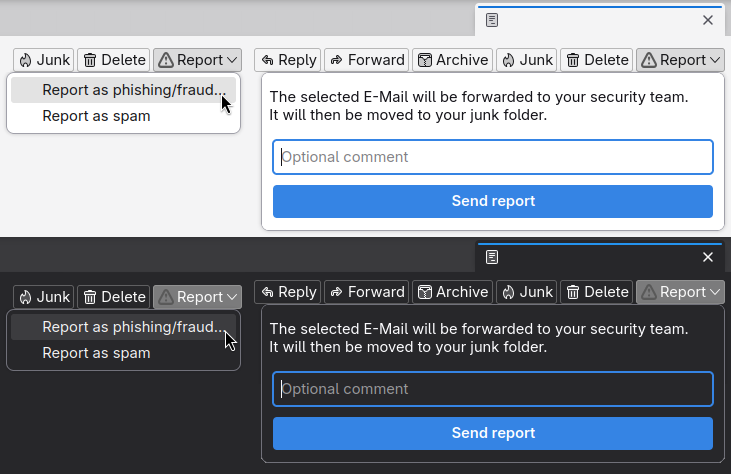
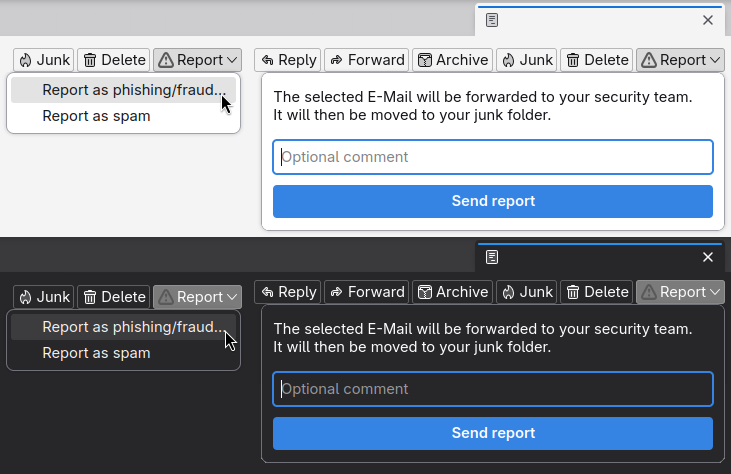
Fix report popup's visual text alignment

Changed region(s): [[0.3611, 0.1772, 0.933, 0.2658], [0.3611, 0.6793, 0.9631, 0.7679]]

diff --git a/src/styles.css b/src/styles.css
@@ -5,10 +5,11 @@
 html {background: var(--background-color-box) !important}
 body.report {
     margin: .5rem 1rem .5rem .5rem;
-    min-width: 30rem /* same popup size for all views given a regular font size */
+    min-width: 30rem; /* Same popup size for all views given a regular font size */
 }
+body.report p {margin-left: 4px} /* Left-align paragraph with TB-styled form inputs */
 body.options {
-    min-height: 10rem; /* vertical space for select dropdowns */
+    min-height: 10rem; /* Vertical space for select dropdowns */
     margin-right: 1rem
 }
 body.options input, body.options button {
